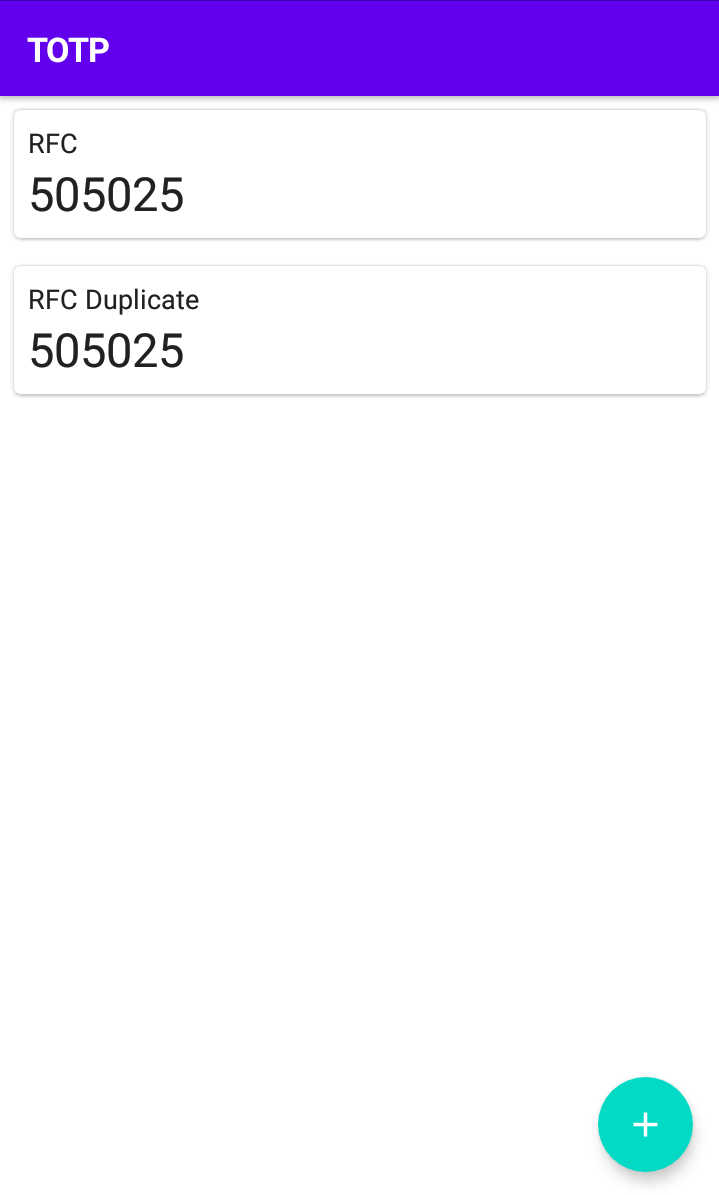
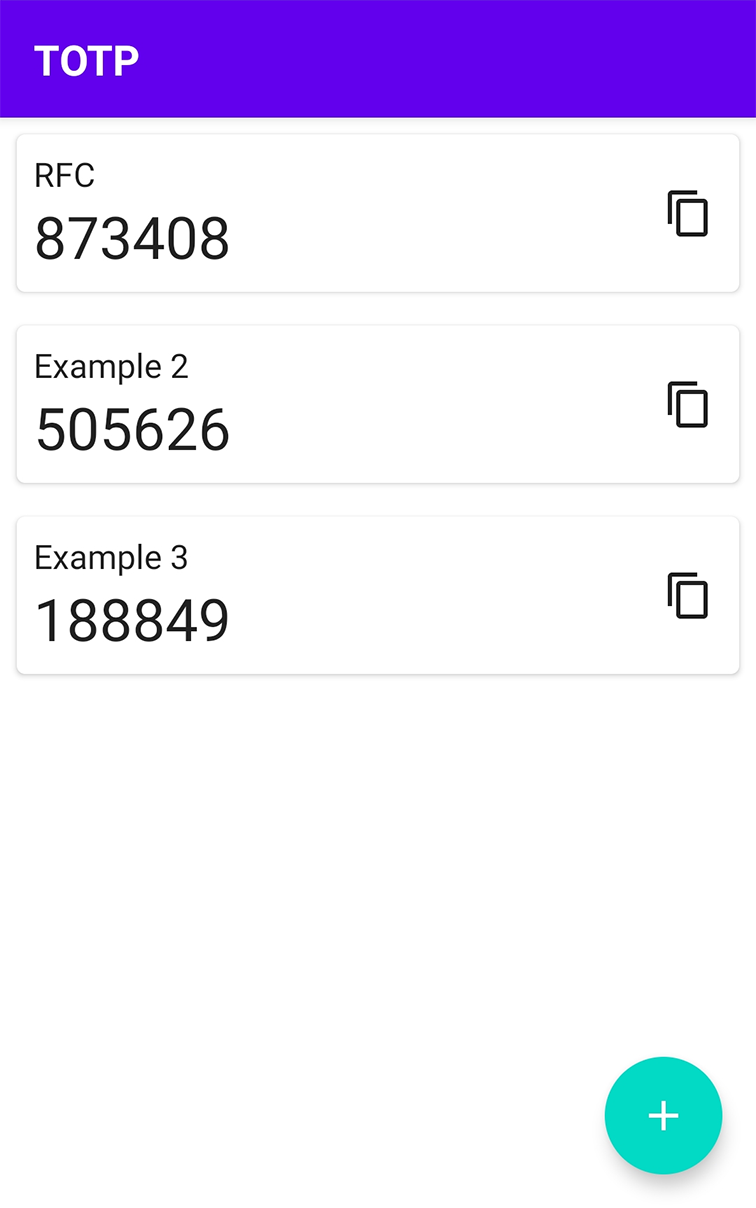
README update

diff --git a/README.md b/README.md
@@ -2,14 +2,49 @@
 
 Authenticator app for generating Time-based One Time Passwords on Android.
 
+App supports adding, removing and editing one time password keys, and copying 
+current codes.
+
 Generation is based on [RFC 6238](https://www.rfc-editor.org/rfc/rfc6238),
 currently only supports SHA-1 as hash algorithm, 30 seconds time step and 6
-digit output passwords. Secret values (keys) needed for the algorithm are stored
-in an SQLite database encrypted by a master key. The master key is generated and
-stored in a KeyStore using AndroidKeyStore provider. Currently no user
-authentication is required to use the master key (I am working on adding some
-sort of authentication in the future).
+digit output passwords. Secret values (keys) needed for the TOTP algorithm are 
+stored in an SQLite database encrypted by a master key. The master key is 
+generated and stored in a KeyStore using AndroidKeyStore provider. Currently no 
+user authentication is required to use the master key (I am working on adding 
+some sort of authentication in the future).
 
-## Screenshots
+### Technologies used
+
+- Kotlin
+- Compose
+- Room with Flow
+- Android Keystore System
+- Hilt
+
+### Screenshots
 
 <img src="screenshots/home_screen.png" alt="home_screen" width="360"/>
+
+### How to Build
+
+Requirements:
+
+- Java SDK of version 19 or lower in `JAVA_HOME` environmental variable - 
+building was tested with Java 17, lower versions may work too.
+- Android SDK in `ANDROID_SDK_ROOT` environmental variable and/or in 
+`local.properties` file in the root of the project as `sdk.dir=/path/to/sdk`
+- (Optional) `GRADLE_USER_HOME` environmental variable defines where to store 
+gradle wrapper distributions and some other files. If this variable doesn't 
+exist, Gradle will store its data in `<path to user home folder>/.gradle`.
+
+Building from command line is described on developer.android.com website 
+[here](https://developer.android.com/build/building-cmdline#build_apk).
+
+To build an apk with IntelliJ / Android Studio, open the project and:
+
+- For release version - open `Build` > `Generate Signed Bundle / APK` and follow
+the instructions.
+- For debug version - use `Build` > `Build Bundle(s) / APK(s)` > `Build APK(s)`
+or run `assembleDebug` task in Gradle.
+
+Generated apk can be found in `app/build/outputs/apk` folder.
